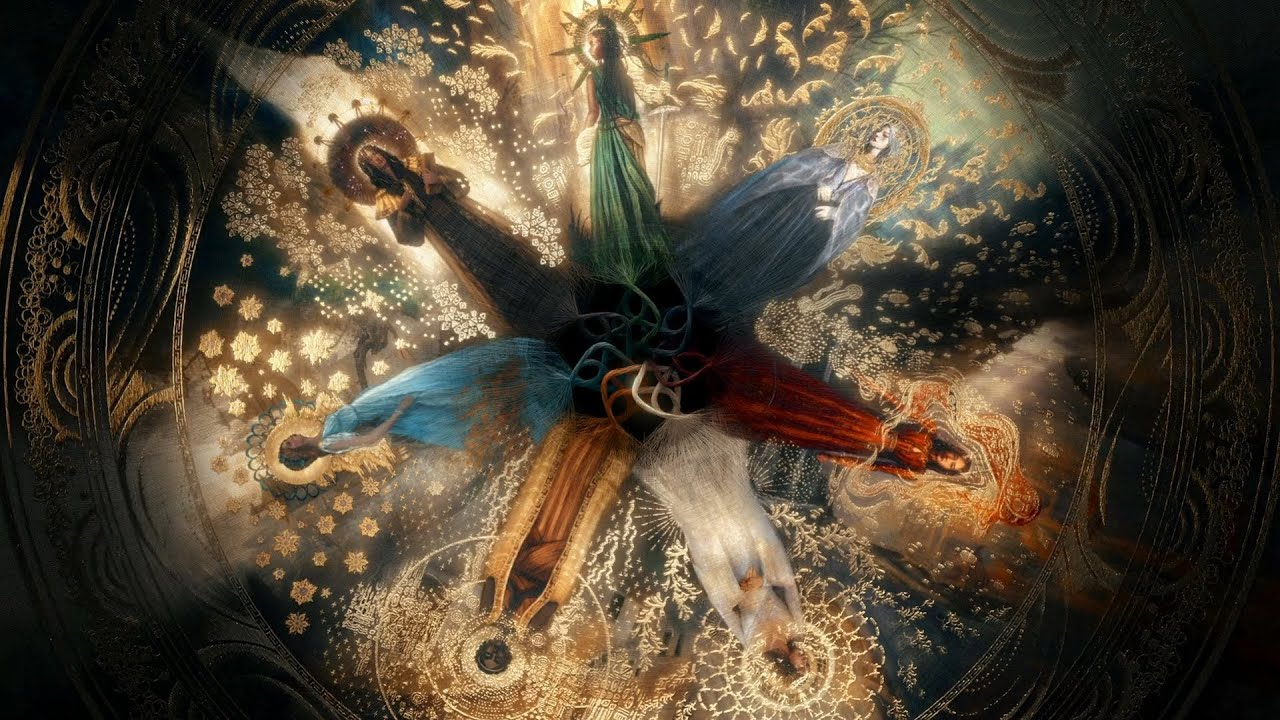
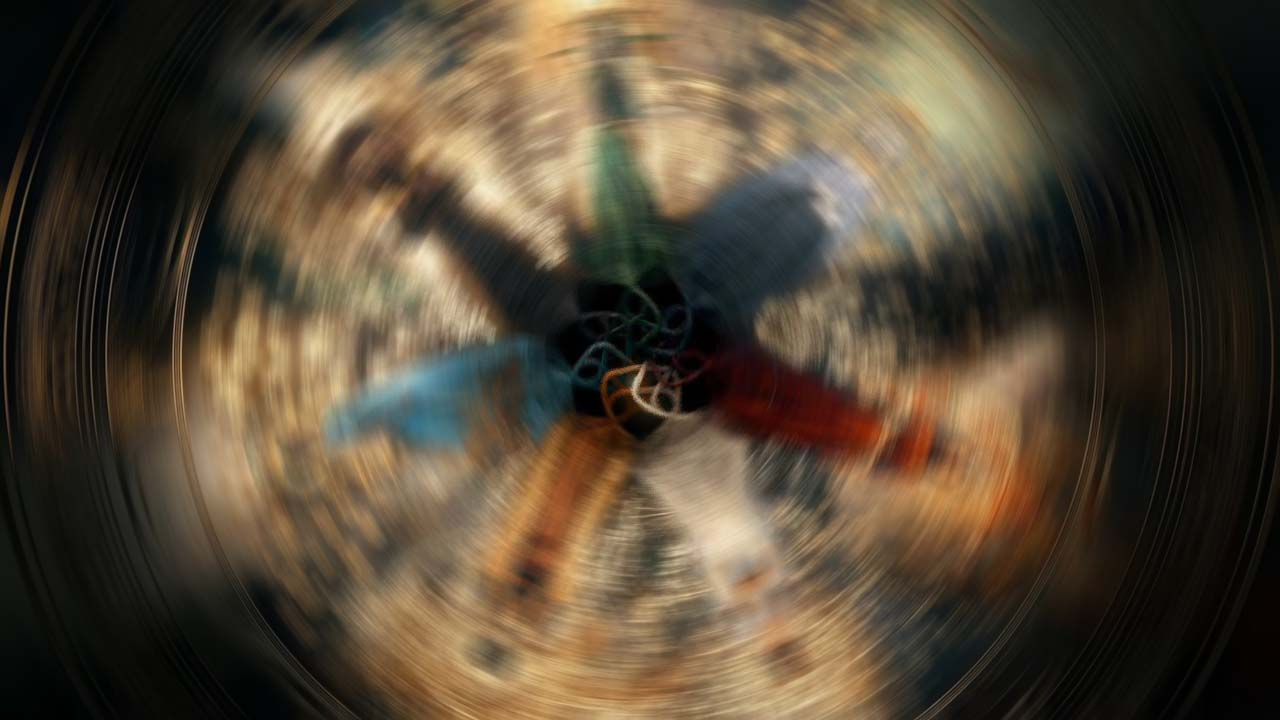
blurred background

diff --git a/styles/globals.css b/styles/globals.css
@@ -283,3 +283,7 @@ a {
 .team-stats-synergies, .team-stats-matchup {
   color:rgb(255, 255, 255);
 }
+
+.portrait-id span.Black {
+  filter: drop-shadow(0 0 0.1rem rgb(130, 130, 130));
+}
